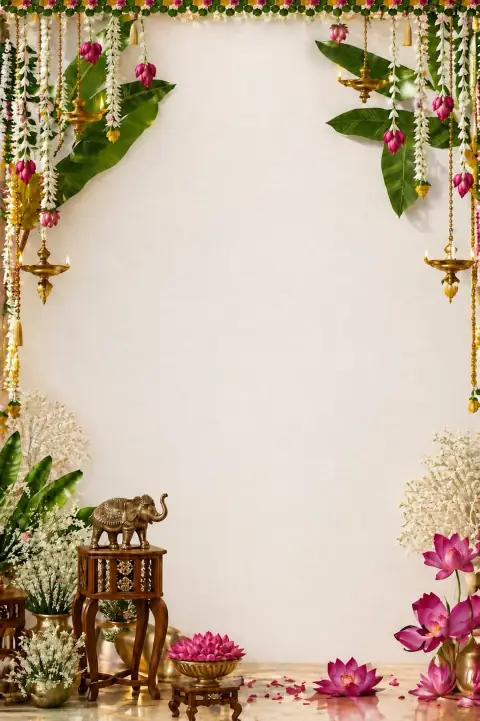
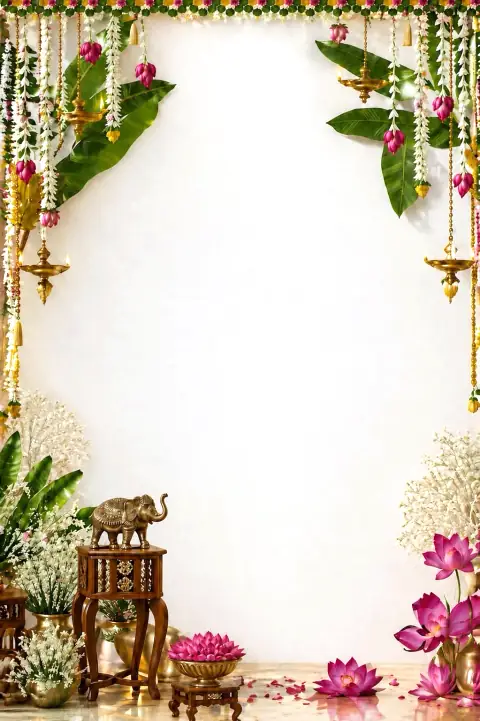
Cover: names centred, artwork on the woven canvas
The cover artwork's cream wall is brightened to white in the asset
pipeline and multiply-blended over the same woven canvas used across the
invite, so only the garlands, lamps, elephant and lotuses remain on the
canvas. The names block is now vertically centred on the first screen.

Claude-Session: https://claude.ai/code/session_01ADHonTWJ8jZCw9jaJ57dyS

diff --git a/src/style.css b/src/style.css
@@ -864,7 +864,8 @@ html.lenis body {
   min-height: 560px;
   overflow: hidden;
   isolation: isolate;
-  background: #f0e3d5;
+  /* the same woven canvas as the rest of the invite */
+  background: #ebeae5 url('/images/art/canvas.webp') 0 0 / calc(var(--colw) * 590 / 1125) auto repeat;
 }
 
 @media (min-width: 600px) {
@@ -879,6 +880,7 @@ html.lenis body {
   z-index: -3;
   transform-origin: 50% 30%;
   transform: scale(calc(1 - var(--p, 0) * 0.06));
+  mix-blend-mode: multiply; /* white wall → canvas shows through */
 }
 
 .cover__img {
@@ -899,9 +901,14 @@ html.lenis body {
 }
 
 .cover__content {
-  position: relative;
+  position: absolute;
+  inset: 0;
   z-index: 2;
-  padding: calc(max(15vh, 92px) + env(safe-area-inset-top)) 14% 0;
+  display: flex;
+  flex-direction: column;
+  align-items: center;
+  justify-content: center;
+  padding: 0 14% 4vh;
   text-align: center;
 }
 
@@ -2429,15 +2436,3 @@ html:not(.js) .closing {
   font-size: min(11px, calc(var(--colw) * 0.027));
 }
 
-/* a soft cream glow behind the names keeps them crisp over the garlands */
-.cover__content::before {
-  content: '';
-  position: absolute;
-  z-index: -1;
-  left: 6%;
-  right: 6%;
-  top: calc(max(15vh, 92px) - 20px);
-  height: calc(var(--colw) * 0.82);
-  background: radial-gradient(ellipse at 50% 50%, rgba(246, 236, 222, 0.85) 30%, rgba(246, 236, 222, 0) 70%);
-  pointer-events: none;
-}
